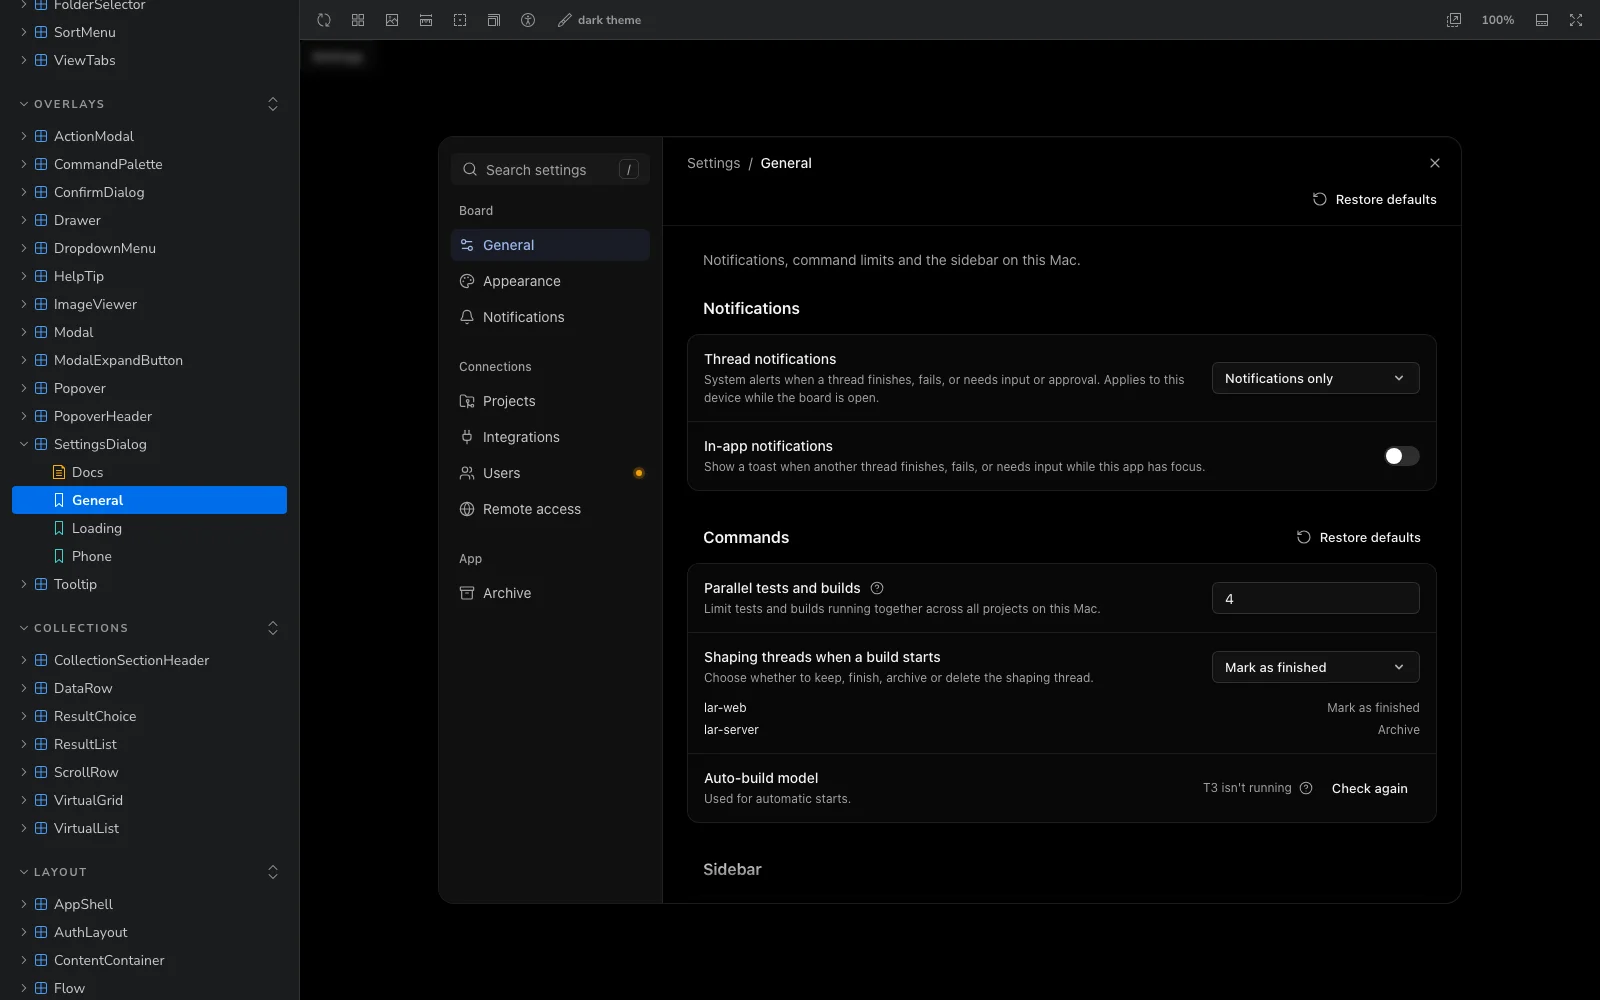
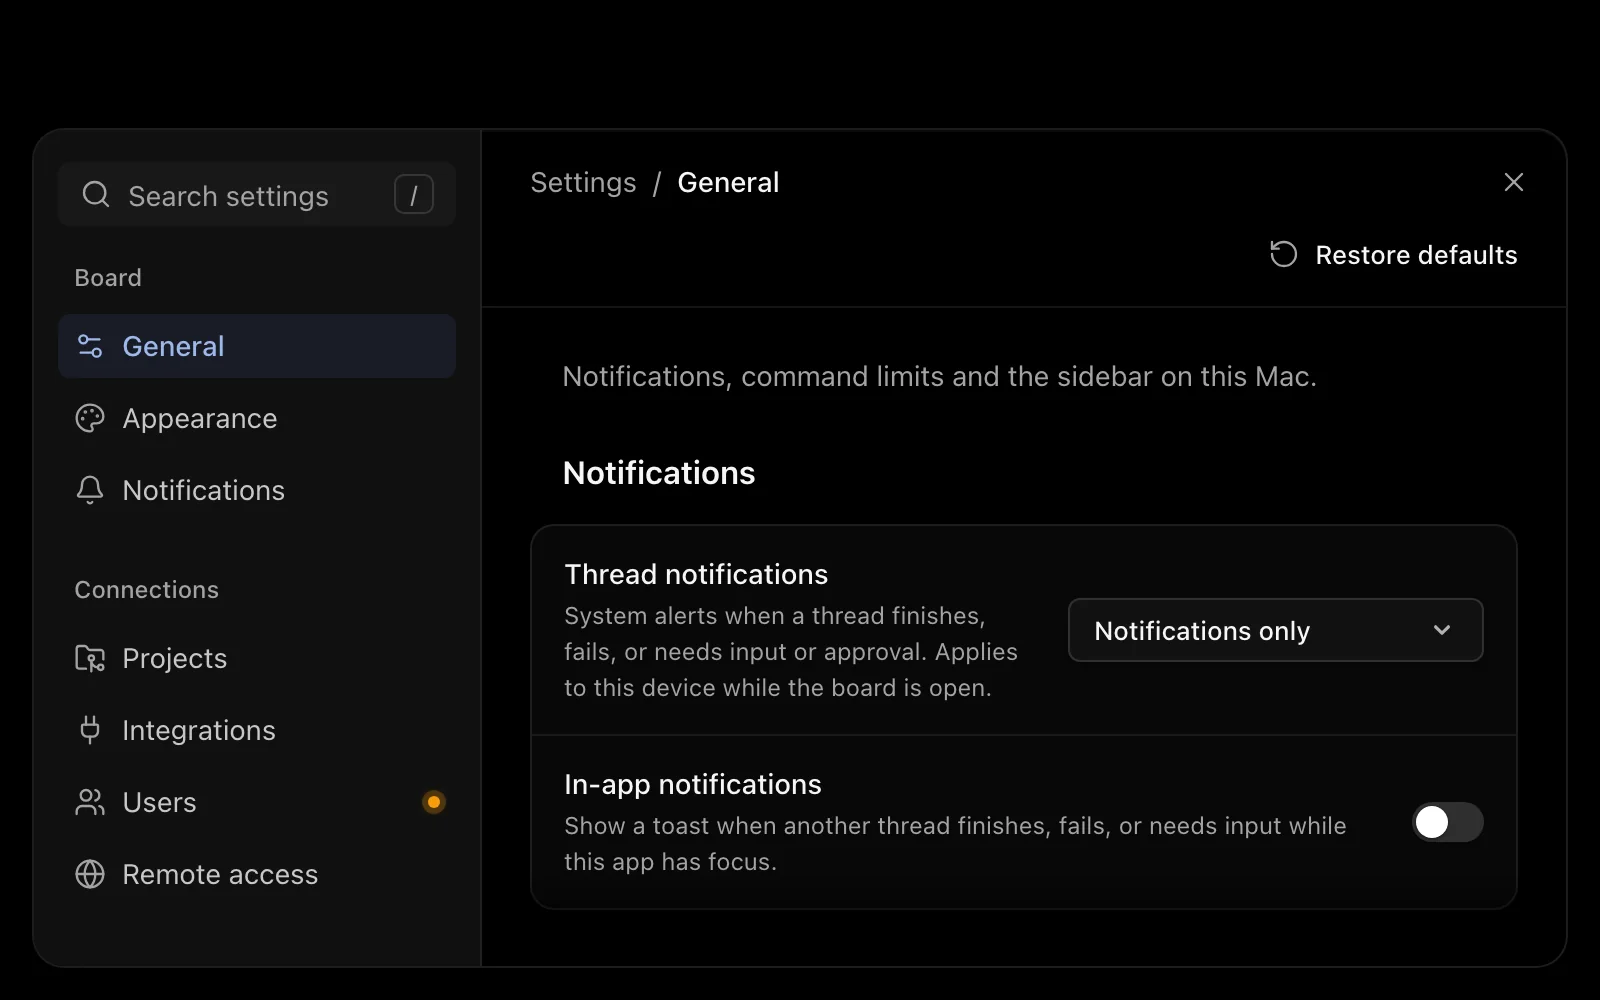
docs: README review fixes

diff --git a/README.md b/README.md
@@ -12,7 +12,7 @@
   <a href="https://maddec01.github.io/lar-web/">
     <picture>
       <source media="(prefers-color-scheme: dark)" srcset=".github/readme/storybook-dark.webp">
-      <img src=".github/readme/storybook-light.webp" width="100%" alt="The design system's Storybook showing the SettingsDialog component: a settings window with a searchable section list and rows of notification and command settings">
+      <img src=".github/readme/storybook-light.webp" width="100%" alt="The design system's SettingsDialog component: a settings window with a searchable section list and rows of notification and command settings">
     </picture>
   </a>
 </p>
@@ -43,6 +43,7 @@ Each package's README shows the setup. To start a new app from the template, clo
 
 ```sh
 node scripts/create-app.mjs ../my-app --name my-app
+cd ../my-app && git init && pnpm install && pnpm dev
 ```
 
 ## Contributing
